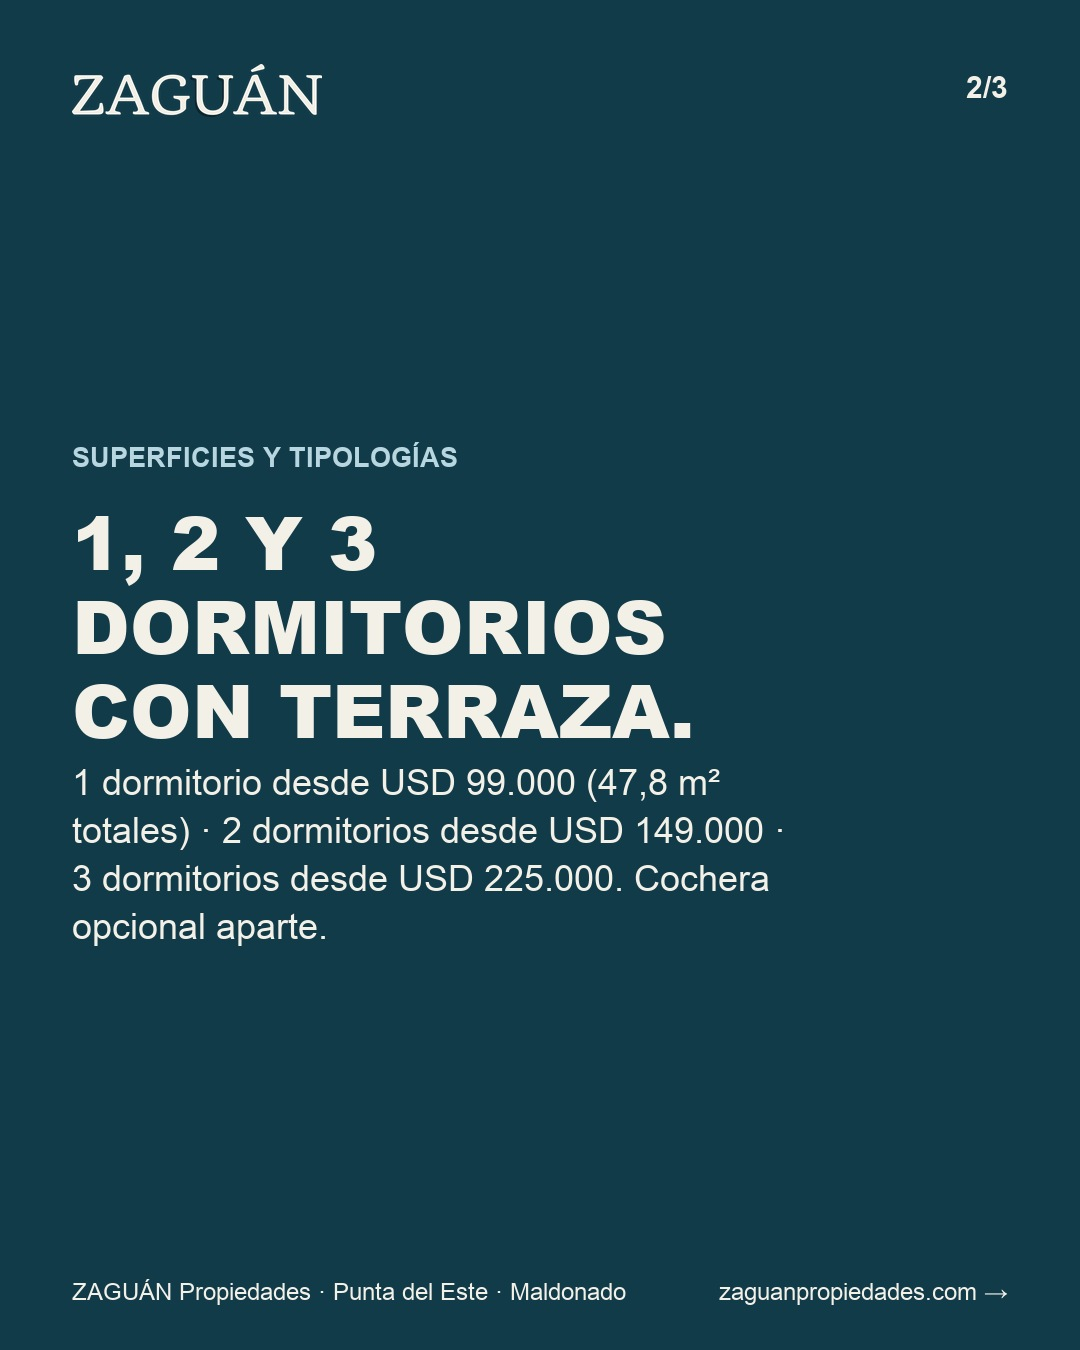
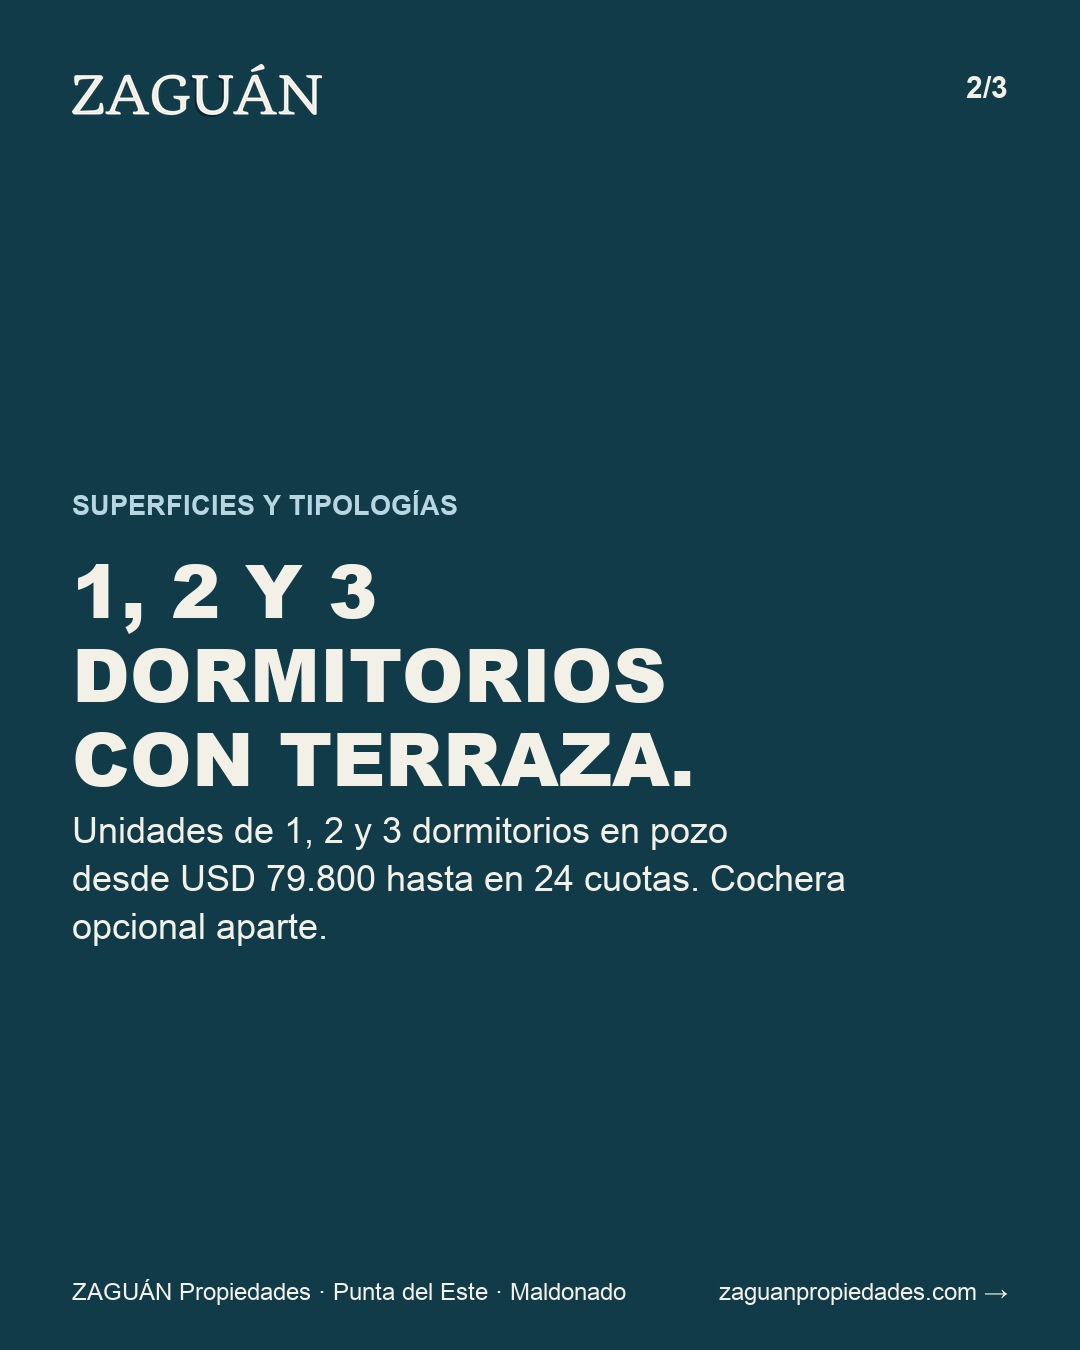
fix(betania-iv): restore official Desde USD 79.800 across all plates and pages, add Lightbox preview and intercalated rotation

Changed region(s): [[0.0611, 0.3111, 0.7639, 0.6844]]

diff --git a/links/index.html b/links/index.html
@@ -214,7 +214,7 @@ height="0" width="0" style="display:none;visibility:hidden"></iframe></noscript>
         </a>
 
         <a class="action secondary" href="/proyectos/betania-iv/">
-          Betania IV · Maldonado · Desde USD 99.000
+          Betania IV · Maldonado · Desde USD 79.800
         </a>
 
         <a class="action secondary" href="/proyectos/eve-tower/">
